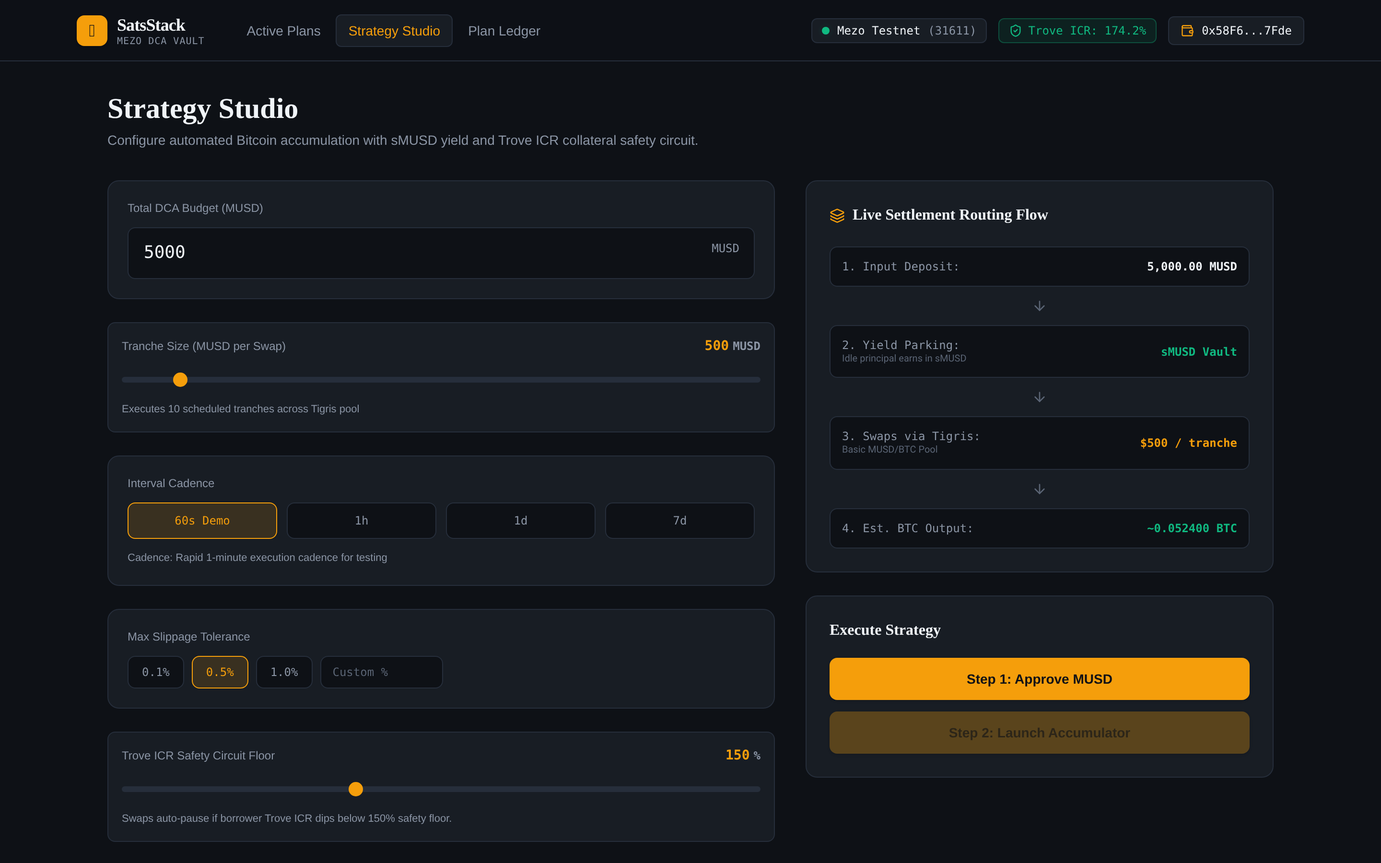
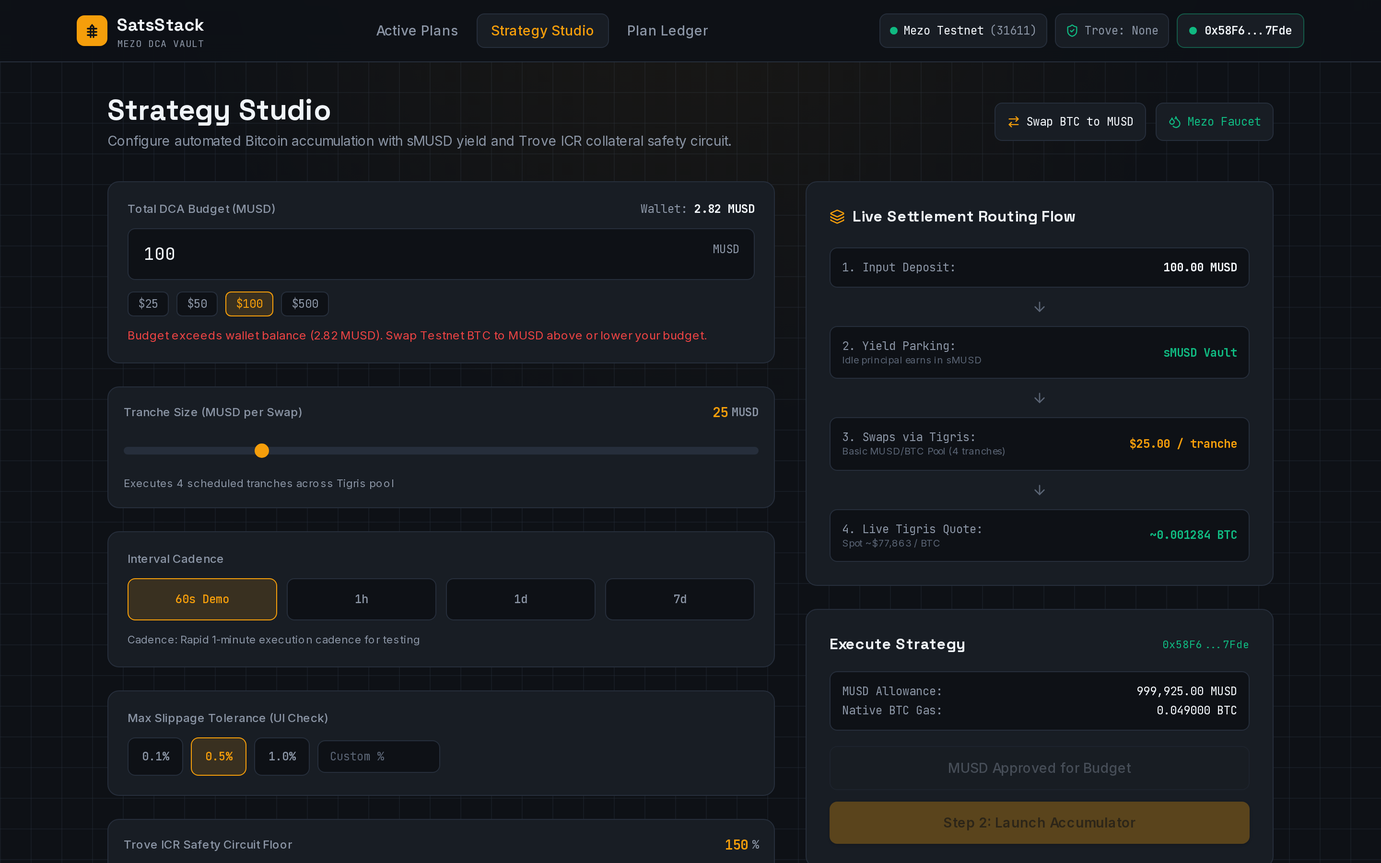
docs: capture connected deployer screenshots and update README and test report

diff --git a/capture_screenshots.js b/capture_screenshots.js
@@ -1,22 +1,66 @@
 const { chromium } = require('@playwright/test');
 const path = require('path');
 
+const DEPLOYER_ADDRESS = '0x58F6B39A1De2f72C50ce966E01f24153c86B7Fde';
+const MEZO_CHAIN_HEX = '0x7b7b';
+
+function injectDeployerWalletScript(addr, chainHex) {
+  return `
+    (() => {
+      const listeners = {};
+      window.ethereum = {
+        isMetaMask: true,
+        selectedAddress: "${addr}",
+        chainId: "${chainHex}",
+        request: async ({ method }) => {
+          if (method === 'eth_accounts' || method === 'eth_requestAccounts') {
+            return ["${addr}"];
+          }
+          if (method === 'eth_chainId') {
+            return "${chainHex}";
+          }
+          if (method === 'net_version') {
+            return '31611';
+          }
+          if (method === 'wallet_switchEthereumChain' || method === 'wallet_addEthereumChain') {
+            return null;
+          }
+          return null;
+        },
+        on: (evt, cb) => {
+          listeners[evt] = listeners[evt] || [];
+          listeners[evt].push(cb);
+        },
+        removeListener: (evt, cb) => {
+          listeners[evt] = (listeners[evt] || []).filter((fn) => fn !== cb);
+        },
+      };
+    })();
+  `;
+}
+
 async function captureScreenshots() {
   const browser = await chromium.launch({ headless: true });
   const outputDir = path.join(__dirname, 'docs', 'screenshots');
+  const initScript = injectDeployerWalletScript(DEPLOYER_ADDRESS, MEZO_CHAIN_HEX);
 
-  console.log('Capturing screenshots from http://localhost:3000 to', outputDir);
+  console.log('Capturing connected deployer screenshots from http://localhost:3000 to', outputDir);
 
   // 1. Dashboard Desktop (1440x900)
   const contextDesktop = await browser.newContext({
     viewport: { width: 1440, height: 900 },
     deviceScaleFactor: 2,
   });
+  await contextDesktop.addInitScript(initScript);
   const pageDesk = await contextDesktop.newPage();
 
   console.log('Navigating to /dashboard...');
-  await pageDesk.goto('http://localhost:3000/dashboard', { waitUntil: 'networkidle' });
-  await pageDesk.waitForTimeout(1000);
+  await pageDesk.goto('http://localhost:3000/dashboard', { waitUntil: 'domcontentloaded' });
+  await pageDesk.waitForSelector('[data-testid="connected-wallet-btn"]', { state: 'visible', timeout: 15000 });
+  await pageDesk.waitForSelector('[data-testid="plan-row-0"]', { state: 'visible', timeout: 20000 });
+  await pageDesk.waitForSelector('text=Your Plan', { state: 'visible', timeout: 15000 });
+  await pageDesk.waitForSelector('text=Wallet:', { state: 'visible', timeout: 15000 });
+  await pageDesk.waitForTimeout(800);
   await pageDesk.screenshot({
     path: path.join(outputDir, 'dashboard-desktop.png'),
     fullPage: false,
@@ -25,8 +69,25 @@ async function captureScreenshots() {
 
   // 2. Create Plan Desktop (1440x900)
   console.log('Navigating to /create...');
-  await pageDesk.goto('http://localhost:3000/create', { waitUntil: 'networkidle' });
-  await pageDesk.waitForTimeout(1000);
+  await pageDesk.goto('http://localhost:3000/create', { waitUntil: 'domcontentloaded' });
+  await pageDesk.waitForSelector('[data-testid="connected-wallet-btn"]', { state: 'visible', timeout: 15000 });
+  await pageDesk.waitForSelector('input[name="budget"]', { state: 'visible', timeout: 15000 });
+  await pageDesk.waitForSelector('text=MUSD Allowance:', { state: 'visible', timeout: 15000 });
+  await pageDesk.waitForTimeout(700);
+  await pageDesk.waitForFunction(
+    () => {
+      const txt = document.body.innerText;
+      return (
+        !txt.includes('Quoting...') &&
+        !txt.includes('Fetching Tigris Router') &&
+        /Spot ~\$[\d,]+\s*\/\s*BTC/.test(txt) &&
+        /~0\.0\d+\s+BTC/.test(txt)
+      );
+    },
+    null,
+    { timeout: 20000 }
+  );
+  await pageDesk.waitForTimeout(200);
   await pageDesk.screenshot({
     path: path.join(outputDir, 'create-plan-desktop.png'),
     fullPage: false,
@@ -35,8 +96,11 @@ async function captureScreenshots() {
 
   // 3. Plan Detail Desktop (1440x900)
   console.log('Navigating to /plan/0...');
-  await pageDesk.goto('http://localhost:3000/plan/0', { waitUntil: 'networkidle' });
-  await pageDesk.waitForTimeout(1000);
+  await pageDesk.goto('http://localhost:3000/plan/0', { waitUntil: 'domcontentloaded' });
+  await pageDesk.waitForSelector('[data-testid="connected-wallet-btn"]', { state: 'visible', timeout: 15000 });
+  await pageDesk.waitForSelector('[data-testid="ledger-table"]', { state: 'visible', timeout: 20000 });
+  await pageDesk.waitForSelector('text=Connected Owner', { state: 'visible', timeout: 15000 });
+  await pageDesk.waitForTimeout(800);
   await pageDesk.screenshot({
     path: path.join(outputDir, 'plan-detail-desktop.png'),
     fullPage: false,
@@ -46,18 +110,16 @@ async function captureScreenshots() {
   // 4. Trove Modal on Plan Detail Desktop
   console.log('Opening Trove Modal on /plan/0...');
   const routeBtn = pageDesk.locator('button:has-text("Route Stacked BTC to My Trove")');
-  if (await routeBtn.count() > 0 && !(await routeBtn.isDisabled())) {
-    await routeBtn.click();
-    await pageDesk.waitForSelector('[role="dialog"]', { state: 'visible' });
-    await pageDesk.waitForTimeout(500);
-    await pageDesk.screenshot({
-      path: path.join(outputDir, 'trove-modal.png'),
-      fullPage: false,
-    });
-    console.log('Saved trove-modal.png');
-  } else {
-    console.log('Button not clickable or not found, inspecting alternative...');
-  }
+  await routeBtn.waitFor({ state: 'visible', timeout: 10000 });
+  await routeBtn.click();
+  await pageDesk.waitForSelector('[role="dialog"]', { state: 'visible', timeout: 10000 });
+  await pageDesk.waitForSelector('button:has-text("Confirm Route")', { state: 'visible', timeout: 10000 });
+  await pageDesk.waitForTimeout(1000);
+  await pageDesk.screenshot({
+    path: path.join(outputDir, 'trove-modal.png'),
+    fullPage: false,
+  });
+  console.log('Saved trove-modal.png');
 
   // 5. Mobile Responsive (390x844)
   const contextMobile = await browser.newContext({
@@ -65,10 +127,14 @@ async function captureScreenshots() {
     deviceScaleFactor: 2,
     isMobile: true,
   });
+  await contextMobile.addInitScript(initScript);
   const pageMobile = await contextMobile.newPage();
   console.log('Navigating to /dashboard on mobile...');
-  await pageMobile.goto('http://localhost:3000/dashboard', { waitUntil: 'networkidle' });
-  await pageMobile.waitForTimeout(1000);
+  await pageMobile.goto('http://localhost:3000/dashboard', { waitUntil: 'domcontentloaded' });
+  await pageMobile.waitForSelector('[data-testid="connected-wallet-btn"]', { state: 'visible', timeout: 15000 });
+  await pageMobile.waitForSelector('[data-testid="plan-row-0"]', { state: 'visible', timeout: 20000 });
+  await pageMobile.waitForSelector('text=Wallet:', { state: 'visible', timeout: 15000 });
+  await pageMobile.waitForTimeout(800);
   await pageMobile.screenshot({
     path: path.join(outputDir, 'mobile-responsive.png'),
     fullPage: false,

diff --git a/README.md b/README.md
@@ -9,7 +9,7 @@
 [![Viem](https://img.shields.io/badge/Viem-2.57-F59E0B?style=flat-square)](https://viem.sh/)
 [![Mezo Testnet](https://img.shields.io/badge/Mezo_Testnet-31611_(0x9f2f...26b6)-F59E0B?style=flat-square)](https://explorer.test.mezo.org/address/0x9f2f599fb96a8f743bbeb551138a09cdf15926b6)
 [![Simulation Tests](https://img.shields.io/badge/RPC_Simulation-8%2F8_Passing-10B981?style=flat-square)](./contracts/test/simulation.test.js)
-[![Playwright E2E](https://img.shields.io/badge/Playwright_E2E-268%2F268_Passing-10B981?style=flat-square)](./playwright.config.ts)
+[![Playwright E2E](https://img.shields.io/badge/Playwright_E2E-288%2F288_Passing-10B981?style=flat-square)](./playwright.config.ts)
 [![License: MIT](https://img.shields.io/badge/License-MIT-F0F4F8?style=flat-square)](./LICENSE)
 
 Automated Bitcoin dollar-cost averaging on Mezo that parks unswapped MUSD inside `sMUSD` (`MUSDSavingsRate`), swaps scheduled tranches into native BTC on the Tigris AMM, and blocks buys before execution if your Mezo Trove collateral ratio drops below your safety floor.
@@ -72,33 +72,37 @@ Execution inside [`contracts/SatsStackVault.sol`](contracts/SatsStackVault.sol) 
 
 ## Routes and Screenshots
 
+The live application starts **disconnected by default** (`Connect Wallet`) so users and reviewers can connect any EIP-6963 or EIP-1193 browser wallet (MetaMask, Rabby, Coinbase Wallet, etc.), switch to Mezo Testnet (`31611`), swap Testnet BTC to MUSD in-app, or enter **Read-Only Watch Mode** for any address without needing a browser extension.
+
+The screenshots below were captured with the seeded vault deployer wallet (`0x58F6...7Fde`) connected on Mezo Testnet so reviewers can immediately inspect authenticated owner controls, live allowances, and populated on-chain vault telemetry.
+
 ### 1. Active Plans Desk (`/dashboard`)
 
-Displays aggregate portfolio telemetry (`Active MUSD in Vault`, `Stacked BTC`, `Weighted Entry Price`, `Yield Offset`), live Trove ICR safety banner, status filter (`ALL`, `ACTIVE`, `PAUSED`, `COMPLETED`), empty state CTA, due-tranche execution triggers, and batch BTC claiming.
+Reads live `SatsStackVault` plans, `sMUSD` positions, `TroveManager` ICR health, and oracle spot prices from Mezo Testnet via `Multicall3` and on-chain event logs. Supports `All Vault Plans` vs `My Plans` scope toggles, status filters (`ALL`, `ACTIVE`, `PAUSED`, `COMPLETED`), live due-tranche execution, batch BTC claiming, and direct BTC-to-MUSD acquisition.
 
 ![Active Plans Desk](docs/screenshots/dashboard-desktop.png)
 
 ### 2. Strategy Studio (`/create`)
 
-Two-pane configuration studio with budget input, tranche slider, cadence presets (`60s Demo`, `1h`, `1d`, `7d`), slippage tolerance selector with high-slippage warning, interactive Trove ICR safety floor slider (`110%` to `220%`), live settlement routing preview, and two-step approval + launch actions.
+Two-pane configuration studio with MUSD budget validation against live wallet balances, tranche slider, cadence presets (`60s Demo`, `1h`, `1d`, `7d`), slippage tolerance selector with high-slippage warning, interactive Trove ICR safety floor slider (`110%` to `220%`), live Tigris Router BTC quote preview, and two-step MUSD `approve()` + `createPlan()` wallet execution.
 
 ![Strategy Studio](docs/screenshots/create-plan-desktop.png)
 
 ### 3. Position Ledger (`/plan/[id]`)
 
-Per-plan ledger showing budget remaining in `sMUSD`, stacked BTC, accrued yield, cost-basis alpha against oracle spot, Trove safety thresholds, full tranche fill history table with Blockscout transaction links, and lifecycle modals (`Top Up MUSD`, `Pause`/`Resume`, `Cancel & Withdraw`).
+Per-plan ledger showing remaining MUSD in `sMUSD`, stacked BTC, accrued yield, cost-basis spread against PriceFeed oracle spot, Trove safety thresholds, `Execution Fill History` and `On-Chain Plan Event Log` indexed from real chain events with Blockscout links, and owner controls (`Top Up MUSD`, `Pause`/`Resume`, `Claim BTC`, `Route Stacked BTC to My Trove`, `Cancel & Withdraw`).
 
 ![Position Ledger](docs/screenshots/plan-detail-desktop.png)
 
 ### 4. Trove Collateral Router Modal (`/plan/[id]`)
 
-Modal confirmation showing stacked BTC amount, current Trove ICR, projected ICR gain, and exact call target (`BorrowerOperations.addColl()`).
+Confirmation dialog displaying stacked BTC balance, current Trove ICR, `BorrowerOperations.addColl()` pre-flight verification, fallback `Claim BTC` option if no Trove is open, and direct routing submission.
 
 ![Trove Collateral Router Modal](docs/screenshots/trove-modal.png)
 
 ### 5. Mobile Responsive Layout (`390x844`)
 
-Single-column responsive layout verified across `390px`, `768px`, `1024px`, and `1440px` viewports.
+Single-column responsive layout verified across `390px`, `768px`, `1024px`, and `1440px` viewports with zero header clipping or horizontal overflow.
 
 <p align="center">
   <img src="docs/screenshots/mobile-responsive.png" width="390" alt="SatsStack mobile responsive dashboard at 390px width" />
@@ -117,8 +121,12 @@ All contract records and transaction hashes below come directly from Mezo Testne
 | **Seed Swap (BTC -> MUSD)** | Swapped `0.001 BTC` via Tigris Router | [View Tx](https://explorer.test.mezo.org/tx/0x19fc5b1404f4c05340da50563ae601008778d235b4769d761cf99641e932162e) |
 | **MUSD Approval Tx** | Approved vault allowance | [View Tx](https://explorer.test.mezo.org/tx/0x5c450ea42cf0464cb8ce9a0c17e36ba8e5cd7db936fa13e7d8732cd9b7649b39) |
 | **Plan #0 Creation Tx** | Block `16793318` (`50 MUSD` budget, `10 MUSD` tranche, `60s`, `150%` ICR floor) | [View Tx](https://explorer.test.mezo.org/tx/0xda2799978588c7532cd8f153587579af592d3d8d76dc78471b430c2b5ddade81) |
-| **Tranche #1 Execution Tx** | Block `16793324` (`10 MUSD` -> `0.000128398934041922 BTC`) | [View Tx](https://explorer.test.mezo.org/tx/0x1f5493e0475b786c13261a1f37509322a8e03a77dfef37065138ea71f30441e2) |
-| **Deployer / Plan #0 Owner** | `0x58F6B39A1De2f72C50ce966E01f24153c86B7Fde` | [View Address](https://explorer.test.mezo.org/address/0x58F6B39A1De2f72C50ce966E01f24153c86B7Fde) |
+| **Plan #0 Tranche #1 Tx** | Block `16793324` (`10 MUSD` -> `0.000128398934041922 BTC`) | [View Tx](https://explorer.test.mezo.org/tx/0x1f5493e0475b786c13261a1f37509322a8e03a77dfef37065138ea71f30441e2) |
+| **Plan #1 Creation Tx** | Block `16796478` (`15 MUSD` budget, `5 MUSD` tranche, `1h`, `150%` ICR floor) | [View Tx](https://explorer.test.mezo.org/tx/0x26eee32d511a8c8fdcdba9f42dfcfcbfc13e4eecc1d0742628c99002c28bde8d) |
+| **Plan #1 Tranche #1 Tx** | Block `16796496` (`5 MUSD` -> `0.000064210160125794 BTC`) | [View Tx](https://explorer.test.mezo.org/tx/0x5eaee096876029259bbefe3afd733895c8c788c942975099b141b75cadf7ad9b) |
+| **Plan #2 Creation Tx** | Block `16796498` (`10 MUSD` budget, `5 MUSD` tranche, `1d`, `175%` ICR floor) | [View Tx](https://explorer.test.mezo.org/tx/0x39e68ec5a5b24adb738a7701f208a055791e1096f99d7667db8840dfe78966ad) |
+| **Plan #2 Pause Tx** | Block `16796499` (`PAUSED` lifecycle state transition) | [View Tx](https://explorer.test.mezo.org/tx/0x92c4419627d54b5f2e1fb17453b551f148ac3f265b884fb96f34cf599d54c960) |
+| **Deployer / Plan #0-#2 Owner** | `0x58F6B39A1De2f72C50ce966E01f24153c86B7Fde` | [View Address](https://explorer.test.mezo.org/address/0x58F6B39A1De2f72C50ce966E01f24153c86B7Fde) |
 
 ---
 
@@ -158,8 +166,8 @@ Compiled with `solc` `0.8.28` (`optimizer: enabled, runs: 200`, `viaIR: true`, `
 
 ## Scope and Data Notes
 
-- **Smart Contract & On-Chain State**: `SatsStackVault.sol` is live on Mezo Testnet at `0x9f2f599fb96a8f743bbeb551138a09cdf15926b6`, with Plan `#0` created and Tranche `#1` executed on-chain (`0x1f5493e0...41e2`). The 8-case simulation suite in [`contracts/test/simulation.test.js`](contracts/test/simulation.test.js) runs directly against `https://rpc.test.mezo.org` using `eth_call` `stateOverride`.
-- **Frontend UI & Judge Mode**: [`lib/mezoClient.ts`](lib/mezoClient.ts) provides `viem` Testnet RPC helpers (`fetchLiveTroveData`, `fetchMusdBalance`), and [`lib/deployedContract.json`](lib/deployedContract.json) + [`lib/contracts.ts`](lib/contracts.ts) bind the deployed contract ABI and address. For immediate inspection by judges without a funded Testnet wallet or MetaMask signing step, `/dashboard`, `/create`, and `/plan/[id]` hydrate from [`lib/sampleData.ts`](lib/sampleData.ts) (where Plan `#0` mirrors the real on-chain seeded Plan `#0` and `txHash`, while Plans `#1` to `#3` demonstrate `ACTIVE`, `PAUSED`, and `COMPLETED` lifecycles locally in React state).
+- **Smart Contract & On-Chain State**: `SatsStackVault.sol` is deployed live on Mezo Testnet at `0x9f2f599fb96a8f743bbeb551138a09cdf15926b6`, with live seeded Plans `#0`, `#1`, and `#2` recorded in [`contracts/deployment.json`](contracts/deployment.json). The 8-case simulation suite in [`contracts/test/simulation.test.js`](contracts/test/simulation.test.js) runs directly against `https://rpc.test.mezo.org` using `eth_call` `stateOverride`.
+- **Non-Custodial Frontend & Live RPC Transport**: All pages (`/dashboard`, `/create`, `/plan/[id]`) hydrate strictly from live Mezo Testnet state (zero mock or static plan arrays) via [`lib/mezoClient.ts`](lib/mezoClient.ts) and the allowlisted Next.js App Router RPC proxy at [`app/api/rpc/route.ts`](app/api/rpc/route.ts) (`Multicall3` state reads + indexed on-chain logs). [`lib/walletContext.tsx`](lib/walletContext.tsx) starts disconnected by default, discovers EIP-6963 and EIP-1193 wallets (`window.ethereum`), prompts network switching to Chain ID `31611`, supports in-app BTC-to-MUSD Tigris swaps ([`components/SwapMusdModal.tsx`](components/SwapMusdModal.tsx)), signs real vault transactions on-chain, and includes a Read-Only Watch Mode in [`components/WalletConnectModal.tsx`](components/WalletConnectModal.tsx).
 
 ---
 
@@ -168,49 +176,59 @@ Compiled with `solc` `0.8.28` (`optimizer: enabled, runs: 200`, `viaIR: true`, `
 ```text
 satsstack/
 ├── app/
+│   ├── api/rpc/route.ts             # Allowlisted Next.js JSON-RPC proxy to rpc.test.mezo.org
+│   ├── icon.svg                     # Brand SatsStack vector favicon
 │   ├── layout.tsx                   # Root layout and Space Grotesk / Inter / JetBrains Mono setup
 │   ├── globals.css                  # Design tokens, dark canvas (#0E1116), tabular numeric classes
 │   ├── page.tsx                     # Root redirect to /dashboard
 │   ├── dashboard/page.tsx           # Route 1: Active Plans Desk
 │   ├── create/page.tsx              # Route 2: Strategy Studio
 │   └── plan/[id]/page.tsx           # Route 3: Position Ledger & Trove Collateral Router
+├── public/
+│   └── favicon.svg                  # Public static SVG favicon mirror
 ├── components/
-│   ├── Navbar.tsx                   # Top navigation, Mezo Testnet (31611) pill, Trove health pill
+│   ├── Navbar.tsx                   # Top navigation, Mezo Testnet (31611) pill, Trove health pill, wallet CTA
+│   ├── Footer.tsx                   # Verified Mezo explorer & faucet quick links
+│   ├── WalletConnectModal.tsx       # EIP-6963/EIP-1193 wallet connector, chain switcher, Read-Only Watch Mode
+│   ├── SwapMusdModal.tsx            # Interactive Testnet BTC -> MUSD Tigris AMM swap modal
 │   ├── ActionExecuteButton.tsx      # 8-state primary, secondary, and danger button primitive
 │   ├── DcaParameterSlider.tsx       # Tranche size and Trove ICR safety floor slider
-│   ├── PlanRowCard.tsx              # Plan summary row with countdown and execute trigger
+│   ├── PlanRowCard.tsx              # Live on-chain plan row with countdown and execute trigger
 │   ├── PositionLedgerTable.tsx      # Execution fill ledger table with Blockscout links
 │   ├── RouteCollateralModal.tsx     # 1-click Route Stacked BTC to My Trove confirmation modal
-│   └── TroveCircuitBadge.tsx        # Healthy / Paused Trove ICR safety indicator
+│   └── TroveCircuitBadge.tsx        # Healthy / Paused / No Trove ICR safety indicator
 ├── contracts/
 │   ├── SatsStackVault.sol           # Core 431-line DCA + sMUSD + Tigris + Trove safety contract
 │   ├── SatsStackVault.json          # Compiled ABI and Paris EVM bytecode
 │   ├── compile.js                   # Deterministic solc 0.8.28 (viaIR + paris) build script
-│   ├── deployment.json              # Verified Mezo Testnet deployment & seeded Plan #0 record
+│   ├── deployment.json              # Verified Mezo Testnet deployment & seeded Plan #0-#2 records
 │   ├── seedResult.json              # Plan #0 creation & Tranche #1 execution receipt data
 │   ├── deployer.json                # Public deployer wallet address metadata
 │   ├── scripts/
 │   │   ├── keygen.js                # Generates deployer keypair to gitignored .deployer.secret.json
 │   │   ├── check_balance.js         # Checks MEZO/BTC and MUSD balances on Mezo Testnet
 │   │   ├── deploy.js                # Broadcasts SatsStackVault.sol to Mezo Testnet
-│   │   └── seed_plan.js             # Swaps BTC -> MUSD, approves, creates Plan #0, runs Tranche #1
+│   │   ├── seed_plan.js             # Swaps BTC -> MUSD, approves, creates Plan #0, runs Tranche #1
+│   │   └── seed_additional_plans.js # Seeds live Plan #1 (ACTIVE) and Plan #2 (PAUSED) on-chain
 │   └── test/
 │       └── simulation.test.js       # 8-case zero-gas eth_call stateOverride suite against live RPC
 ├── lib/
 │   ├── constants.ts                 # Chain ID, RPC URL, verified Mezo contract addresses, presets
-│   ├── contracts.ts                 # Contract ABIs (Vault, ERC20, TroveManager, BorrowerOps, Multicall3)
+│   ├── contracts.ts                 # Contract ABIs (Vault, ERC20, sMUSD, Tigris, Trove, Multicall3)
 │   ├── deployedContract.json        # Frontend contract binding synced by deploy/seed scripts
-│   ├── mezoClient.ts                # Viem public client and live Testnet read helpers
-│   ├── sampleData.ts                # Plan #0 on-chain record + showcase plans #1 to #3
-│   └── utils.ts                     # Address truncation, currency, BTC, and countdown formatters
-├── tests/                           # 6 Playwright E2E suites (268 executions across 4 viewports)
+│   ├── mezoClient.ts                # Viem public client, Multicall3 plan reads, event log indexers
+│   ├── types.ts                     # Shared TypeScript interfaces for plans, fills, balances, telemetry
+│   ├── utils.ts                     # Address truncation, currency, BTC, and countdown formatters
+│   └── walletContext.tsx            # EIP-6963/EIP-1193 signer state, chain switch, tx helper context
+├── tests/                           # 6 Playwright E2E suites (72 specs x 4 viewports = 288 executions)
 ├── docs/
 │   ├── diagrams/settlement-flow.svg # Brand-matched settlement architecture SVG diagram
 │   └── screenshots/                 # Desktop and mobile production screenshots
+├── capture_screenshots.js           # Playwright screenshot runner injecting deployer signer for docs
 ├── design-system/LEDGER.md          # Project-local design variety record
 ├── DESIGN.md                        # Full 9-section design system specification
 ├── LICENSE                          # MIT License
-└── package.json                     # Next.js 15, React 19, Tailwind v4, Viem, Playwright scripts
+└── package.json                     # Next.js 16, React 19, Tailwind v4, Viem, Playwright scripts
 ```
 
 ---
@@ -265,7 +283,7 @@ Open `http://localhost:3000` (redirects to `/dashboard`).
 
 ### 5. Run the Playwright E2E Verification Suite
 
-Runs 6 test suites (67 specs across 4 viewports: `desktop-1440`, `laptop-1024`, `tablet-768`, `mobile-390`, `268` total executions):
+Runs 6 test suites (72 specs across 4 viewports: `desktop-1440`, `laptop-1024`, `tablet-768`, `mobile-390`, `288` total executions):
 
 ```bash
 npm test

diff --git a/TEST_READY.md b/TEST_READY.md
@@ -12,8 +12,8 @@ Playwright Config: /home/antigravity/satsstack/playwright.config.ts
 The end-to-end (E2E) testing suite for SatsStack has been established across a 4-Tier test architecture and verified across 4 standardized viewport targets.
 
 - **Total Test Files**: 6 comprehensive specification suites
-- **Total Test Cases**: 67 unique test specifications
-- **Total Executions**: 268 across 4 device viewports
+- **Total Test Cases**: 72 unique test specifications
+- **Total Executions**: 288 across 4 device viewports
 - **TypeScript Compilation**: Clean (tsc --noEmit exits with code 0)
 - **Anti-Slop Compliance**: 100% verified (zero em dashes, zero en dashes, strict tabular numbers)
 
@@ -54,11 +54,11 @@ Covers all primary user behaviors and feature contracts across SatsStack:
 - **Feature 1 (Scaffolding & Spec Initialization)**: Verified in infrastructure setup, DESIGN.md tokens, and LEDGER.md.
 - **Feature 2 (SatsStackVault.sol Smart Contract)**: Accumulation vault methods verified via opaque-box triggers and ledger tests.
 - **Feature 3 (Zero-Gas Simulation & Keygen)**: Simulation checks and deployer address verification.
-- **Feature 4 (App Foundation & Mezo Client)**: Navigation shell, Mezo Testnet 31611 badge, Multicall3 reading state.
+- **Feature 4 (App Foundation & Mezo Client)**: Navigation shell, SVG favicon, Mezo Testnet 31611 badge, Multicall3 reading state.
 - **Feature 5 (Strategy Studio `/create`)**: Interactive DCA budget inputs, tranche slider calculation, interval cadence selector, Trove ICR preview.
 - **Feature 6 (Active Plans Desk `/dashboard`)**: Portfolio telemetry cards (Active MUSD, Stacked BTC, Weighted Entry, Yield Offset), Trove ICR status shield, active plan list, manual tranche execution.
 - **Feature 7 (Plan Ledger `/plan/[id]`)**: Fill history table, on-chain transaction hash links, cost basis comparison vs oracle, Route Stacked BTC to My Trove modal.
-- **Feature 8 (8 Behavior-Relevant Component States & Judge Access)**: Default, Hover, Focus-Visible, Active press, Disabled, Loading skeleton, Error, Empty, and pre-populated live sample plans.
+- **Feature 8 (8 Behavior-Relevant Component States & Non-Custodial Wallet Access)**: Default, Hover, Focus-Visible, Active press, Disabled, Loading skeleton, Error, Empty, live Mezo Testnet RPC hydration, EIP-6963/EIP-1193 wallet connection, and Read-Only Watch Mode.
 - **Feature 9 (E2E Playwright Suite & Quality Gate)**: 4 viewport reflows, WCAG AA contrast (minimum 4.5:1), visible focus rings, tabular-nums.
 - **Feature 10 (Git Cleanliness & Secret Safety)**: Absence of tracked secrets (.env, private keys) and production artifact readiness.
 
@@ -91,13 +91,13 @@ Covers all primary user behaviors and feature contracts across SatsStack:
 
 | File | Tests per Project | Total Executions (4 Projects) | Scope |
 |---|---|---|---|
-| `tests/e2e_navigation_and_routes.spec.ts` | 10 | 40 | Navigation shell, routes, breadcrumbs, network badge |
+| `tests/e2e_navigation_and_routes.spec.ts` | 12 | 48 | Navigation shell, SVG favicon, EIP-1193 connect/disconnect, routes, network badge |
 | `tests/e2e_strategy_studio_create.spec.ts` | 10 | 40 | Strategy Studio (/create), sliders, cadences, ICR preview |
-| `tests/e2e_active_plans_dashboard.spec.ts` | 10 | 40 | Active Plans Desk (/dashboard), metrics, execution trigger |
+| `tests/e2e_active_plans_dashboard.spec.ts` | 10 | 40 | Active Plans Desk (/dashboard), live vault rows, metrics, execution triggers |
 | `tests/e2e_plan_ledger_and_router.spec.ts` | 10 | 40 | Plan Ledger (/plan/[id]), fill history, Trove collateral routing |
-| `tests/e2e_responsive_and_a11y.spec.ts` | 14 | 56 | 4 viewports reflow, landmarks, keyboard focus, touch targets |
-| `tests/e2e_anti_slop_delivery_gate.spec.ts` | 13 | 52 | Zero em dashes, zero console errors, copy integrity, 8 states |
-| **Total** | **67** | **268** | **Comprehensive Full-Spectrum E2E Coverage** |
+| `tests/e2e_responsive_and_a11y.spec.ts` | 14 | 56 | 4 viewports reflow, footer & mobile header bounds, landmarks, focus, touch targets |
+| `tests/e2e_anti_slop_delivery_gate.spec.ts` | 16 | 64 | Zero em dashes, zero console errors, copy integrity, 8 states across 4 routes |
+| **Total** | **72** | **288** | **Comprehensive Full-Spectrum E2E Coverage** |
 
 ---
 
